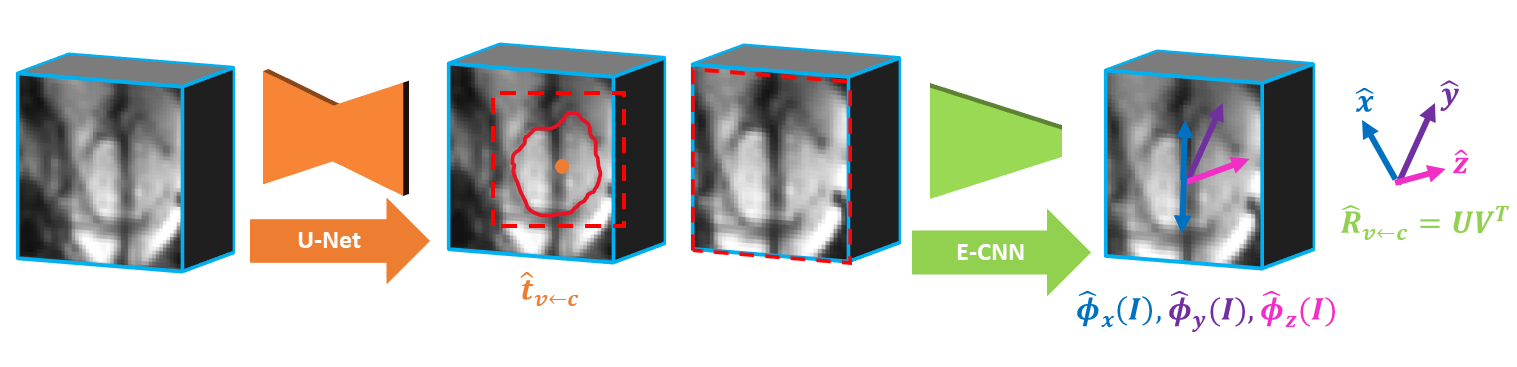
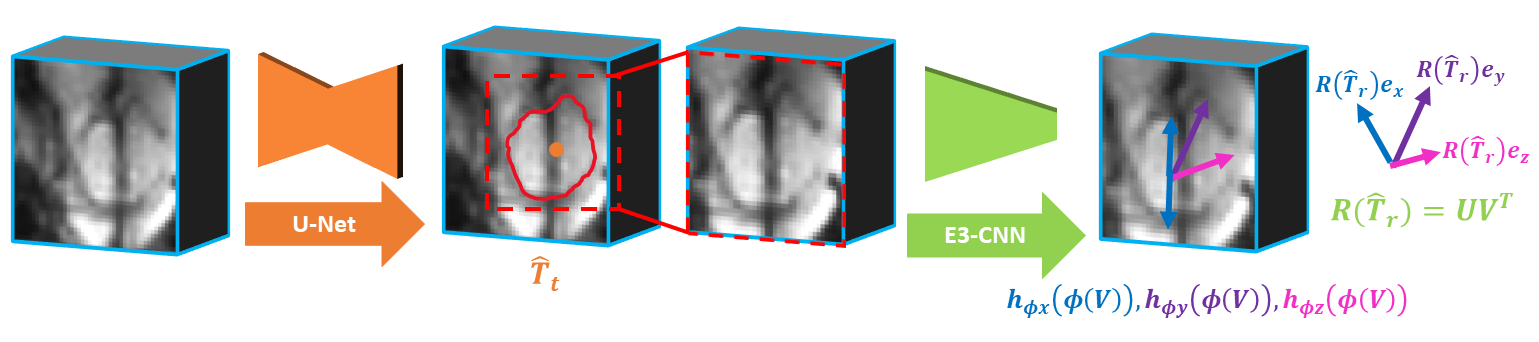
method updates after experiment cleanup

diff --git a/e3pose/augmentation.py b/e3pose/augmentation.py
@@ -6,14 +6,12 @@ from . import utils
 
 class SegUNetAugmentation:
     def __init__(self,
-                 im_shape, # [H, W, D]
-                 img_res,
+                 crop_size=128, # [H, W, D]
+                 img_res=3.,
                  flipping=True,
-                 scaling_bounds=(0.8, 2.0),
+                 scaling_bounds=(0.5, 1.3),
                  rotation_bounds=15,
                  translation_bounds=False,
-                 nonlin_std=3.,
-                 nonlin_scale=.0625,
                  randomise_res=False,
                  max_res_iso=8.,
                  max_bias=.5,
@@ -21,6 +19,7 @@ class SegUNetAugmentation:
                  norm_perc=0.02,
                  gamma=0.4):
         # define all transformations to be applied
+        self.crop_size = crop_size
         self.identity_transform = torchio.transforms.Lambda(lambda x: utils.identity_transform(x))
         self.random_affine = torchio.transforms.RandomAffine(
             scales=(scaling_bounds[0], scaling_bounds[1], scaling_bounds[0], scaling_bounds[1], scaling_bounds[0], scaling_bounds[1]),
@@ -31,10 +30,6 @@ class SegUNetAugmentation:
             scales=(scaling_bounds[0], scaling_bounds[1], scaling_bounds[0], scaling_bounds[1], scaling_bounds[0], scaling_bounds[1]),
             degrees=0,
             translation=0
-        )
-        self.random_elastic = torchio.transforms.RandomElasticDeformation(
-            num_control_points=tuple([int(im_shape[i]*nonlin_scale) for i in range(len(im_shape))]),
-            max_displacement=nonlin_std,
         )
         self.random_flip = torchio.transforms.RandomFlip()
         self.max_bias = max_bias
@@ -54,7 +49,6 @@ class SegUNetAugmentation:
         # compose transformations
         self.spatial_deform_transforms = torchio.transforms.Compose([
             self.random_affine,
-            self.random_elastic
         ])
         flip_prob = 1. if flipping else 0.
         self.spatial_transforms = torchio.transforms.Compose([
@@ -84,10 +78,9 @@ class SegUNetAugmentation:
             self.random_gamma,
         ])
         self.all_transforms = torchio.transforms.Compose([
-            torchio.transforms.CropOrPad(64, mask_name='label'),
+            torchio.transforms.CropOrPad(self.crop_size),
             self.spatial_transforms,
             self.intensity_transforms,
-            CropPad()
         ])
     
     def get_transform(self):
@@ -95,23 +88,46 @@ class SegUNetAugmentation:
     
     def get_val_transform(self):
         return torchio.transforms.Compose([
-            torchio.transforms.CropOrPad(64, mask_name='label'),
+            torchio.transforms.CropOrPad(self.crop_size),
             self.normalize_intensities_final
         ])
 
 class RotE3CNNAugmentation:
-    def __init__(self, norm_perc=0.005):
+    def __init__(self,
+                 max_bias=.5,
+                 img_res=3.,
+                 max_res_iso=7.5,
+                 norm_perc=0.005,
+                 gamma=2.0,
+        ):
         # define all transformations to be applied
         normalize_percentiles = norm_perc if isinstance(norm_perc, tuple) else (norm_perc, 1.-norm_perc)
+        self.max_bias = max_bias
+        self.random_bias_field = RandomBiasField(coefficients=self.max_bias)
+        self.max_res_iso = max_res_iso
+        self.max_res_iso = np.array(utils.reformat_to_list(max_res_iso, length=3, dtype='float'))
+        self.img_res = img_res
+        self.iso_downsampling_scale = np.max(self.max_res_iso / img_res)
+        self.random_isotropic_LR = RandomIsotropicLR(lr_scale=self.iso_downsampling_scale)
+        self.identity_transform = torchio.transforms.Lambda(lambda x: utils.identity_transform(x))
+        self.resolution_transform = torchio.transforms.OneOf({
+                  RandomIsotropicLR(lr_scale=max_res_iso/self.img_res): 0.9,
+                  self.identity_transform: 0.1
+        }),
         self.normalize_intensities = torchio.transforms.Lambda(lambda x: utils.normalize_perc(x, normalize_percentiles), types_to_apply=[torchio.INTENSITY])
         self.random_sh_artifact = RandomSpinHistoryArtifact(sigma_range=(0.2,0.4), alpha_range=(0.5,1.5), sample_t_uniform=True)
         self.normalize_intensities_final = Normalize()
+        self.gamma = gamma
+        self.random_gamma = RandomGamma(log_gamma=self.gamma)
         
         # compose transforms
         self.training_transforms = torchio.transforms.Compose([
+            self.random_bias_field,
             self.normalize_intensities_final,
             self.random_sh_artifact,
+            self.resolution_transform,
             self.normalize_intensities,
+            self.random_gamma,
         ])
         self.eval_transforms = torchio.transforms.Compose([
             self.normalize_intensities_final,
@@ -162,22 +178,6 @@ class RandomSpinHistoryArtifact(torchio.transforms.Transform):
             vol_artifact = torch.clone(vol.tensor)
         subject['image'] = torchio.ScalarImage(tensor=vol_artifact, affine=subject['image'].affine)
         return subject
-
-class CropPad(torchio.transforms.Transform):
-    """
-    Randomly crops and zero-pads volume borders
-    """
-    def __init__(self, p=1):
-        super().__init__(p=p)
-    
-    def apply_transform(self, subject):
-        cutoff = np.random.randint(8,16)
-        params = [0]*3
-        params[np.random.randint(3)] = cutoff
-        params = tuple(params)
-        crop_transform = torchio.transforms.Compose([torchio.transforms.Crop(params), torchio.transforms.Pad(params)])
-        transformed = crop_transform(subject)
-        return transformed
 
 class Normalize(torchio.transforms.Transform):
     """

diff --git a/scripts/train_unet.py b/scripts/train_unet.py
@@ -20,15 +20,16 @@ parser.add_argument("--batchsize", type=int, dest="batchsize", default=4, help="
 
 # SPATIAL
 parser.add_argument("--flipping", action='store_true', dest="flipping", help="random volume flipping during training")
-parser.add_argument("--scaling", dest="scaling_bounds", type=float, default=0.2, help="random scaling parameter for data augmentation")
+parser.add_argument("--crop_size", dest="crop_size", type=int, default=128, help="volume crop size in voxels during training")
+parser.add_argument("--scaling_lower_bound", dest="scaling_lower_bound", type=float, default=0.5, help="random scaling lower bound parameter for data augmentation")
+parser.add_argument("--scaling_upper_bound", dest="scaling_upper_bound", type=float, default=1.3, help="random scaling upper bound parameter for data augmentation")
 parser.add_argument("--rotation", dest="rotation_bounds", type=float, default=180, help="random rotation parameter for data augmentation")
 parser.add_argument("--translation", dest="translation_bounds", type=float, default=10, help="random translation parameter for data augmentation")
-parser.add_argument("--nonlin_std", type=float, dest="nonlin_std", default=4., help="max displacement at each control point for random elastic deformations")
-parser.add_argument("--nonlin_scale", type=float, dest="nonlin_scale", default=.05, help="ratio of control points per voxel for random smooth elastic deformations")
 
 # OTHER AUGMENTATIONS
 parser.add_argument("--randomise_res", action='store_true', dest="randomise_res", help="augment training volumes with randomly simulated low resolutions")
-parser.add_argument("--max_res_iso", type=float, dest="max_res_iso", default=8., help="max downsampling scale for low-resolution augmentations")
+parser.add_argument("--img_res", type=float, dest="img_res", default=3., help="input volume resolution during training")
+parser.add_argument("--max_res_iso", type=float, dest="max_res_iso", default=8., help="max voxel dimension (in mm) for low-resolution augmentations")
 parser.add_argument("--max_bias", type=float, dest="max_bias", default=.5, help="max magnitude of coefficients for bias field simulation")
 parser.add_argument("--noise_std", type=float, dest="noise_std", default=.03, help="standard dev. for Gaussian noise data augmentation")
 parser.add_argument("--norm_perc", type=float, dest="norm_perc", default=.005, help="fraction of input volume intensities that will be normalized to (0,1)")

diff --git a/e3pose/utils.py b/e3pose/utils.py
@@ -102,11 +102,11 @@ def build_xfm_dict(xfm_dir):
 
 # ----------------------------------------------- preprocessing functions -----------------------------------------------
 
-def preprocess_seg(image, aff):
+def preprocess_seg(image, aff, crop_size=128):
     transform = torchio.transforms.Compose([
                                         torchio.transforms.RescaleIntensity(),
                                         torchio.transforms.Resample(3.),
-                                        torchio.transforms.CropOrPad(64),
+                                        torchio.transforms.CropOrPad(crop_size),
                                         torchio.transforms.RescaleIntensity(),
                                     ])
     image = torchio.ScalarImage(tensor=torch.tensor(image).unsqueeze(0), affine=aff)
@@ -305,7 +305,8 @@ def simulate_spin_history_artifact(img, label, sigma_range, alpha_range, sample_
         return torch.clone(img)
     
     boundary_idx = torch.nonzero(label_boundary[0])
-    grid = torch.meshgrid(torch.linspace(-1, 1, img_shape[1]), torch.linspace(-1, 1, img_shape[2]), torch.linspace(-1, 1, img_shape[3]))
+    factor = [img_shape[1]/64, img_shape[2]/64, img_shape[3]/64]
+    grid = torch.meshgrid(torch.linspace(-factor[0], factor[0], img_shape[1]), torch.linspace(-factor[1], factor[1], img_shape[2]), torch.linspace(-factor[2], factor[2], img_shape[3]))
     grid = torch.stack(list(grid), dim=-1).to(img.device) # [H, W, D, 3]
     
     boundary_pts = grid[boundary_idx[:,0], boundary_idx[:,1], boundary_idx[:,2],:] # [points, 3 (xyz)]

diff --git a/e3pose/rot/training.py b/e3pose/rot/training.py
@@ -25,6 +25,10 @@ def training(training_im_dir,
              image_size=64,
              rotation_range=90,
              shift_range=5,
+             max_bias=0.5,
+             img_res=3.,
+             max_res_iso=7.5,
+             gamma=2.0,
              norm_perc=0.005,
              n_levels=4,
              kernel_size=5,
@@ -47,6 +51,10 @@ def training(training_im_dir,
     augment_params = {'resize': image_size,
                       'rotation_range': rotation_range,
                       'shift_range': shift_range,
+                      'max_bias': max_bias,
+                      'img_res': img_res,
+                      'max_res_iso': max_res_iso,
+                      'gamma': gamma,
                       'norm_perc': norm_perc}
 
     # training loader
@@ -82,7 +90,6 @@ def training(training_im_dir,
     # Check if need to resume training and load weights
     last_epoch = 0
     best_val_loss = 1e9
-    best_val_dice = 0
     list_scores = []
     if resume:
         previous_files = sorted([p for p in os.listdir(models_dir) if re.sub('\D', '', p) != ''])
@@ -96,7 +103,6 @@ def training(training_im_dir,
             if os.path.isfile(path_val_scores):
                 list_scores = np.load(path_val_scores)
                 best_val_loss = np.min(list_scores[:, 2])
-                best_val_dice = np.max(list_scores[:, 3])
                 list_scores = list_scores.tolist()
 
     # Training loop

diff --git a/e3pose/seg/training.py b/e3pose/seg/training.py
@@ -13,13 +13,14 @@ def training(train_image_dir,
              val_labels_dir,
              model_dir,
              batchsize=1,
+             crop_size=128,
              flipping=False,
-             scaling_bounds=.2,
+             scaling_lower_bound=.5,
+             scaling_upper_bound=1.3,
              rotation_bounds=180,
              translation_bounds=10,
-             nonlin_std=4.,
-             nonlin_scale=.05,
              randomise_res=True,
+             img_res=3.,
              max_res_iso=8.,
              max_bias=.5,
              noise_std=0.03,
@@ -39,12 +40,12 @@ def training(train_image_dir,
 
     # create datasets
     augm_params = {
+        'crop_size': crop_size,
+        'img_res': img_res,
         'flipping': flipping,
-        'scaling_bounds': (1-scaling_bounds, 1+scaling_bounds),
+        'scaling_bounds': (scaling_lower_bound, scaling_upper_bound),
         'rotation_bounds': rotation_bounds,
         'translation_bounds': translation_bounds,
-        'nonlin_std': nonlin_std,
-        'nonlin_scale': nonlin_scale,
         'randomise_res': randomise_res,
         'max_res_iso': max_res_iso,
         'max_bias': max_bias,

diff --git a/e3pose/seg/dataset.py b/e3pose/seg/dataset.py
@@ -19,20 +19,14 @@ class SegmentationDataset(torch.utils.data.Dataset):
         self.image_dir = image_dir
         self.label_dir = label_dir
         self.path_images, self.path_labels = utils.get_image_label_paths(self.image_dir, self.label_dir)
-        img = nib.load(self.path_images[0])
-        img_shape = list(np.squeeze(img.get_fdata()).shape)[:3]
-        img_res = np.array(img.header['pixdim'][1:4])
 
         self.eval_mode = eval_mode
+        self.augmenter = augmentation.SegUNetAugmentation(**augm_params)
         
         # define augmentation model
         if self.eval_mode:
-            self.transform =  torchio.transforms.Compose([
-                torchio.transforms.CropOrPad(64, mask_name='label'),
-                torchio.transforms.RescaleIntensity()
-            ])
+            self.transform = self.augmenter.get_val_transform()
         else:
-            self.augmenter = augmentation.SegUNetAugmentation(im_shape=img_shape, img_res=img_res, **augm_params)
             self.transform = self.augmenter.get_transform()
         
         # define subject dataset

diff --git a/scripts/train_e3cnn.py b/scripts/train_e3cnn.py
@@ -19,6 +19,10 @@ parser.add_argument("--image_size", type=int, dest="image_size", default=64, hel
 # AUGMENTATION
 parser.add_argument("--rotation", type=int, dest="rotation_range", default=90, help="random rotation parameter for data augmentation")
 parser.add_argument("--shift", type=int, dest="shift_range", default=5, help="random translation parameter for data augmentation")
+parser.add_argument("--img_res", type=float, dest="img_res", default=3., help="input volume resolution during training")
+parser.add_argument("--max_bias", type=float, dest="max_bias", default=.5, help="max magnitude of coefficients for bias field simulation")
+parser.add_argument("--max_res_iso", type=float, dest="max_res_iso", default=7.5, help="max voxel dimension (in mm) for low-resolution augmentations")
+parser.add_argument("--gamma", type=float, dest="gamma", default=.8, help="max log value of paremeter for gamma augmentation")
 parser.add_argument("--norm_perc", type=float, dest="norm_perc", default=.005, help="fraction of input volume intensities that will be normalized to (0,1)")
 
 # ARCHITECTURE

diff --git a/scripts/inference.py b/scripts/inference.py
@@ -11,6 +11,7 @@ parser.add_argument("unet_path", help="path to segmentation unet model weights")
 parser.add_argument("e3cnn_path", help="path to e3cnn model weights")
 
 # -------------------------------------------- UNet architecture parameters --------------------------------------------
+parser.add_argument("--unet_crop_size", type=int, dest="unet_crop_size", default=128, help="volume crop size in voxels for segmentation U-Net")
 parser.add_argument("--unet_n_levels", type=int, dest="unet_n_levels", default=4, help="number of levels in U-Net")
 parser.add_argument("--unet_feat", type=int, dest="unet_feat_count", default=16, help="number of output features in first layer of U-Net")
 parser.add_argument("--unet_feat_mult", type=int, dest="unet_feat_mult", default=2, help="multiplicative factor for number of features after each U-Net level")

diff --git a/e3pose/inference.py b/e3pose/inference.py
@@ -19,6 +19,7 @@ def inference(input_image_dir,
              output_dir,
              unet_path,
              e3cnn_path,
+             unet_crop_size=128,
              unet_n_levels=4,
              unet_feat_count=16,
              unet_feat_mult=2,
@@ -48,7 +49,7 @@ def inference(input_image_dir,
         aff_rot = utils.get_rot_from_aff(aff)
         
         # TRANSLATION ESTIMATION
-        unet_input, unet_aff = utils.preprocess_seg(image, aff)
+        unet_input, unet_aff = utils.preprocess_seg(image, aff, crop_size=unet_crop_size)
         unet_input = unet_input.to(device).unsqueeze(0).to(torch.float32)
         unet_output = torch.softmax(unet(unet_input), dim=1)
         seg_pred = utils.postprocess_segmentation(raw_pred=torch.clone(unet_output), thresh=seg_thresh)

diff --git a/e3pose/rot/loaders.py b/e3pose/rot/loaders.py
@@ -205,7 +205,13 @@ class IntensityAugmenter(object):
                  seed=None):
 
         # initialise
-        self.aug_model = augmentation.RotE3CNNAugmentation(augm_params["norm_perc"])
+        self.aug_model = augmentation.RotE3CNNAugmentation(
+            max_bias=augm_params["max_bias"],
+            img_res=augm_params["img_res"],
+            max_res_iso=augm_params["max_res_iso"],
+            gamma=augm_params["gamma"],
+            norm_perc=augm_params["norm_perc"]
+        )
         self.trainT = self.aug_model.get_transform()
         self.evalT = self.aug_model.get_eval_transform()
 

diff --git a/README.md b/README.md
@@ -21,21 +21,21 @@ Our E3-CNN architecture builds on prior theoretical work on [3D steerable CNNs](
 <br />
 
 Overall, E3-Pose outperforms state-of-the-art methods for rigid pose estimation in fetal brain MRI, 
-including strategies that rely on classical optimization ([ANTs](https://github.com/ANTsX/ANTs)<sup>4</sup>), 
-anatomical landmark detection ([Fetal-Align](https://github.com/mu40/fetal-align)<sup>5</sup>), 
+including strategies that rely on anatomical landmark detection ([Fetal-Align](https://github.com/mu40/fetal-align)<sup>4</sup>), 
+classical optimization ([FireANTs](https://github.com/rohitrango/FireANTs)<sup>5</sup>),
 keypoint detection ([EquiTrack](https://github.com/BBillot/EquiTrack)<sup>6</sup>), 
 and direct pose regression with standard CNNs ([3DPose-Net](https://github.com/SadeghMSalehi/DeepRegistration)<sup>7</sup>, [6DRep](https://www.spiedigitallibrary.org/conference-proceedings-of-spie/12464/124640T/Automatic-brain-pose-estimation-in-fetal-MRI/10.1117/12.2647613.full)<sup>8</sup>, [RbR](https://github.com/HuXiaoling/Regre4Regis)<sup>9</sup>). 
 See figure below for rigid pose estimation in low-SNR volumes with severe artifacts. Particularly, we show in our paper that regularizing network parameters to conform with the physical symmetry of rigid pose estimation mitigates overfitting and permits better generalization to out-of-distribution data.
 
 <br />
 
-![vNav examples](images/vnav_examples.png)
+![examples](images/examples.png)
 
 <br />
 
 The full article describing this method is available at:
 
-**E3-Pose: Equivariant Rigid Pose Estimation With Application to Slice Prescription in Fetal Brain MRI** \
+**E3-Pose: Symmetry-Aware Rigid Pose Estimation in Fetal Brain MRI** \
 Muthukrishnan, Billot, Gagoski, Soldatelli, Grant, Golland
 
 
@@ -131,7 +131,7 @@ This repository contains all the code necessary to train and test your own netwo
 
 If you find this work useful for your research, please cite:
 
-**E3-Pose: Equivariant Rigid Pose Estimation With Application to Slice Prescription in Fetal Brain MRI** \
+**E3-Pose: Symmetry-Aware Rigid Pose Estimation in Fetal Brain MRI** \
 Muthukrishnan, Billot, Gagoski, Soldatelli, Grant, Golland
 
 If you have any question regarding the usage of this code, or any suggestions to improve it, please raise an issue
@@ -156,13 +156,13 @@ Journal of Machine Learning in Biomedical Imaging, 2024
 Geiger and Smidt \
 arXiV, 2022
 
-<sup>4</sup> *A reproducible evaluation of ANTs similarity metric performance in brain image registration* \
-Avants, Tustison, Song, Cook, Klein, Gee \
-NeuroImage, 2011
-
-<sup>5</sup> *Rapid head-pose detection for automated slice prescription of fetal-brain MRI* \
+<sup>4</sup> *Rapid head-pose detection for automated slice prescription of fetal-brain MRI* \
 Hoffmann, Abaci Turk, Gagoski, Morgan, Wighton, Tisdall, Reuter, Adalsteinsson, Grant, Wald, van der Kouwe \
 International Journal of Imaging Systems and Technology, 2021
+
+<sup>5</sup> *FireANTs: Adaptive Riemannian optimization for multi-scale diffeomorphic registration* \
+Jena, Chaudhari, Gee \
+arXiV, 2024
 
 <sup>6</sup> *SE(3)-Equivariant and Noise-Invariant 3D Rigid Motion racking in Brain MRI* \
 Billot, Dey, Moyer, Hoffmann, Abaci Turk, Gagoski \
